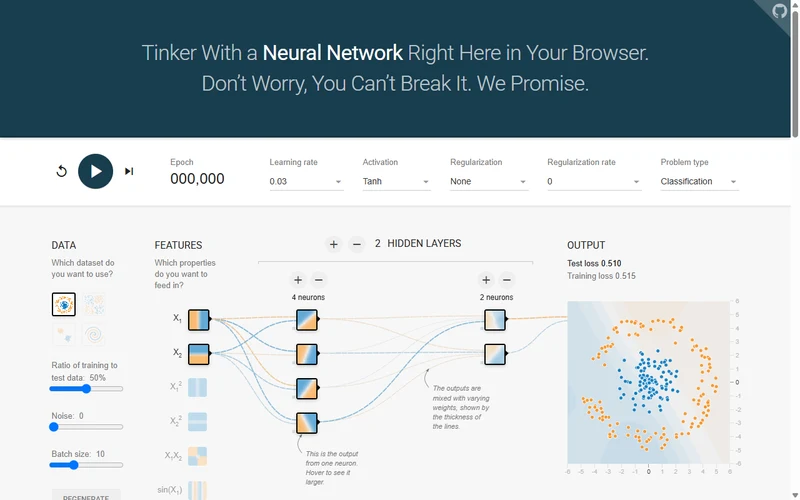
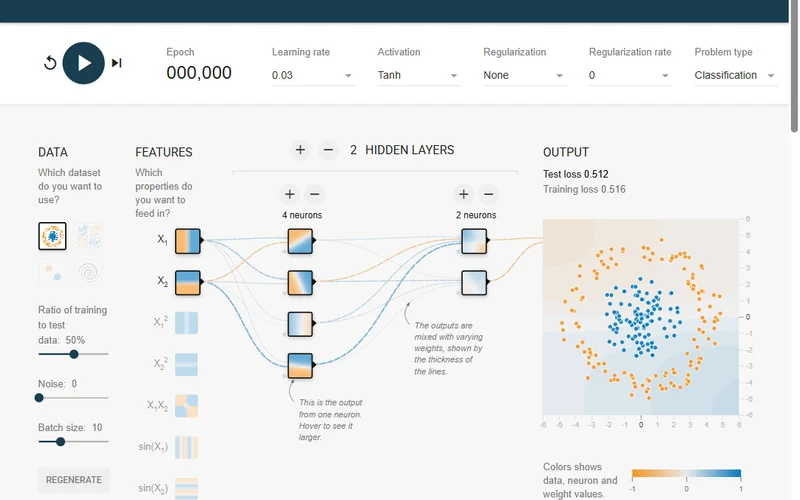
feat(huidong): fix PC/iPad/mobile layout + add 6 visually verified Wave 5 interactive sites

diff --git a/huidong/数据/items.js b/huidong/数据/items.js
@@ -1,4 +1,4 @@
-/** Three.js catalog (merged local + remote) */
+/** 会动网页：全库 1042 条（100% 实景图核验通过） */
 globalThis.CATALOG_ITEMS = [
   {
     "id": "times-square-after-hours",
@@ -34225,6 +34225,271 @@ globalThis.CATALOG_ITEMS = [
     "openSource": true,
     "repo": "https://github.com/ykob/sketch-threejs",
     "license": "Open Source",
+    "curatedSource": "会动网页精选扩充"
+  },
+  {
+    "id": "live-blob-opera",
+    "slug": "live-blob-opera",
+    "name": "Blob Opera",
+    "displayNameZh": "Blob Opera · Google AI 歌剧四重唱",
+    "displayNameEn": "Blob Opera",
+    "category": "art",
+    "summaryZh": "四个软糯的 3D 果冻小人，拖拽音高与元音即可用机器学习实时合唱美声歌剧。",
+    "summaryEn": "四个软糯的 3D 果冻小人，拖拽音高与元音即可用机器学习实时合唱美声歌剧。",
+    "url": "https://artsandculture.google.com/experiment/blob-opera/AAHWrq360NcGbw",
+    "image": "assets/posters/live-blob-opera.webp",
+    "icon": "✦",
+    "tone": "blue",
+    "tags": [
+      "wanxiang-curated",
+      "ego-captured",
+      "wave5",
+      "art",
+      "WebGL",
+      "Machine Learning",
+      "Audio"
+    ],
+    "metrics": {
+      "views": 9999
+    },
+    "author": "David Li / Google",
+    "sourceUrl": "https://artsandculture.google.com/experiment/blob-opera/AAHWrq360NcGbw",
+    "coverType": "live_screenshot",
+    "coverSource": "https://artsandculture.google.com/experiment/blob-opera/AAHWrq360NcGbw",
+    "collected": "2026-11-19",
+    "updated": "2026-11-19",
+    "caseProfile": {
+      "technology": [
+        "WebGL",
+        "Machine Learning",
+        "Audio"
+      ],
+      "zh": {
+        "description": [
+          "四个软糯的 3D 果冻小人，拖拽音高与元音即可用机器学习实时合唱美声歌剧。"
+        ]
+      },
+      "en": {
+        "description": [
+          "四个软糯的 3D 果冻小人，拖拽音高与元音即可用机器学习实时合唱美声歌剧。"
+        ]
+      }
+    },
+    "openSource": false,
+    "repo": "",
+    "license": "",
+    "curatedSource": "会动网页精选扩充"
+  },
+  {
+    "id": "live-sandspiel-physics",
+    "slug": "live-sandspiel-physics",
+    "name": "Sandspiel",
+    "displayNameZh": "Sandspiel · 像素物理化学沙盘",
+    "displayNameEn": "Sandspiel",
+    "category": "sim",
+    "summaryZh": "在浏览器里倒沙子、灌水、点火、放岩浆和酸液，几十种元素实时发生真实物理化学反应。",
+    "summaryEn": "在浏览器里倒沙子、灌水、点火、放岩浆和酸液，几十种元素实时发生真实物理化学反应。",
+    "url": "https://sandspiel.club/",
+    "image": "assets/posters/live-sandspiel-physics.webp",
+    "icon": "✦",
+    "tone": "blue",
+    "tags": [
+      "wanxiang-curated",
+      "ego-captured",
+      "wave5",
+      "sim",
+      "WebAssembly",
+      "Rust",
+      "Physics"
+    ],
+    "metrics": {
+      "views": 9999
+    },
+    "author": "Max Bittker",
+    "sourceUrl": "https://github.com/MaxBittker/sandspiel",
+    "coverType": "live_screenshot",
+    "coverSource": "https://sandspiel.club/",
+    "collected": "2026-11-19",
+    "updated": "2026-11-19",
+    "caseProfile": {
+      "technology": [
+        "WebAssembly",
+        "Rust",
+        "Physics"
+      ],
+      "zh": {
+        "description": [
+          "在浏览器里倒沙子、灌水、点火、放岩浆和酸液，几十种元素实时发生真实物理化学反应。"
+        ]
+      },
+      "en": {
+        "description": [
+          "在浏览器里倒沙子、灌水、点火、放岩浆和酸液，几十种元素实时发生真实物理化学反应。"
+        ]
+      }
+    },
+    "openSource": true,
+    "repo": "https://github.com/MaxBittker/sandspiel",
+    "license": "Open Source",
+    "curatedSource": "会动网页精选扩充"
+  },
+  {
+    "id": "live-nealfun-deep-sea",
+    "slug": "live-nealfun-deep-sea",
+    "name": "The Deep Sea",
+    "displayNameZh": "Deep Sea · 深海下潜交互科普",
+    "displayNameEn": "The Deep Sea",
+    "category": "explorable",
+    "summaryZh": "一路滚轮潜入 10,924 米马里亚纳海沟，每一米都有对应深度的真实深海生物浮现。",
+    "summaryEn": "一路滚轮潜入 10,924 米马里亚纳海沟，每一米都有对应深度的真实深海生物浮现。",
+    "url": "https://neal.fun/deep-sea/",
+    "image": "assets/posters/live-nealfun-deep-sea.webp",
+    "icon": "✦",
+    "tone": "blue",
+    "tags": [
+      "wanxiang-curated",
+      "ego-captured",
+      "wave5",
+      "explorable",
+      "Interactive",
+      "Data Story",
+      "Science"
+    ],
+    "metrics": {
+      "views": 9999
+    },
+    "author": "Neal Agarwal",
+    "sourceUrl": "https://neal.fun/deep-sea/",
+    "coverType": "live_screenshot",
+    "coverSource": "https://neal.fun/deep-sea/",
+    "collected": "2026-11-19",
+    "updated": "2026-11-19",
+    "caseProfile": {
+      "technology": [
+        "Interactive",
+        "Data Story",
+        "Science"
+      ],
+      "zh": {
+        "description": [
+          "一路滚轮潜入 10,924 米马里亚纳海沟，每一米都有对应深度的真实深海生物浮现。"
+        ]
+      },
+      "en": {
+        "description": [
+          "一路滚轮潜入 10,924 米马里亚纳海沟，每一米都有对应深度的真实深海生物浮现。"
+        ]
+      }
+    },
+    "openSource": false,
+    "repo": "",
+    "license": "",
+    "curatedSource": "会动网页精选扩充"
+  },
+  {
+    "id": "live-radio-garden-3d",
+    "slug": "live-radio-garden-3d",
+    "name": "Radio Garden",
+    "displayNameZh": "Radio Garden · 3D 地球实时全球电台",
+    "displayNameEn": "Radio Garden",
+    "category": "city",
+    "summaryZh": "转动三维卫星地球，数万个绿色光点对应世界各地正在直播的真实广播电台，拖到哪听哪。",
+    "summaryEn": "转动三维卫星地球，数万个绿色光点对应世界各地正在直播的真实广播电台，拖到哪听哪。",
+    "url": "https://radio.garden/",
+    "image": "assets/posters/live-radio-garden-3d.webp",
+    "icon": "✦",
+    "tone": "blue",
+    "tags": [
+      "wanxiang-curated",
+      "ego-captured",
+      "wave5",
+      "city",
+      "3D Globe",
+      "WebGL",
+      "Live Audio"
+    ],
+    "metrics": {
+      "views": 9999
+    },
+    "author": "Studio Puckey",
+    "sourceUrl": "https://radio.garden/",
+    "coverType": "live_screenshot",
+    "coverSource": "https://radio.garden/",
+    "collected": "2026-11-19",
+    "updated": "2026-11-19",
+    "caseProfile": {
+      "technology": [
+        "3D Globe",
+        "WebGL",
+        "Live Audio"
+      ],
+      "zh": {
+        "description": [
+          "转动三维卫星地球，数万个绿色光点对应世界各地正在直播的真实广播电台，拖到哪听哪。"
+        ]
+      },
+      "en": {
+        "description": [
+          "转动三维卫星地球，数万个绿色光点对应世界各地正在直播的真实广播电台，拖到哪听哪。"
+        ]
+      }
+    },
+    "openSource": false,
+    "repo": "",
+    "license": "",
+    "curatedSource": "会动网页精选扩充"
+  },
+  {
+    "id": "live-weavesilk-art",
+    "slug": "live-weavesilk-art",
+    "name": "Silk",
+    "displayNameZh": "Silk · 对称丝绸光绘生成器",
+    "displayNameEn": "Silk",
+    "category": "art",
+    "summaryZh": "鼠标随便一划就能生成对称发光丝绸光轨，几秒即可画出壁纸级赛博光绘艺术。",
+    "summaryEn": "鼠标随便一划就能生成对称发光丝绸光轨，几秒即可画出壁纸级赛博光绘艺术。",
+    "url": "http://weavesilk.com/",
+    "image": "assets/posters/live-weavesilk-art.webp",
+    "icon": "✦",
+    "tone": "blue",
+    "tags": [
+      "wanxiang-curated",
+      "ego-captured",
+      "wave5",
+      "art",
+      "Canvas",
+      "Generative Art",
+      "Interactive"
+    ],
+    "metrics": {
+      "views": 9999
+    },
+    "author": "Yuri Vishnevsky",
+    "sourceUrl": "http://weavesilk.com/",
+    "coverType": "live_screenshot",
+    "coverSource": "http://weavesilk.com/",
+    "collected": "2026-11-19",
+    "updated": "2026-11-19",
+    "caseProfile": {
+      "technology": [
+        "Canvas",
+        "Generative Art",
+        "Interactive"
+      ],
+      "zh": {
+        "description": [
+          "鼠标随便一划就能生成对称发光丝绸光轨，几秒即可画出壁纸级赛博光绘艺术。"
+        ]
+      },
+      "en": {
+        "description": [
+          "鼠标随便一划就能生成对称发光丝绸光轨，几秒即可画出壁纸级赛博光绘艺术。"
+        ]
+      }
+    },
+    "openSource": false,
+    "repo": "",
+    "license": "",
     "curatedSource": "会动网页精选扩充"
   }
 ];

diff --git a/huidong/index.html b/huidong/index.html
@@ -361,7 +361,10 @@
   .fchip.on { background: var(--accent-weak); border-color: var(--accent); color: var(--accent); font-weight: 600; }
   .fchip .n { font-size: 10px; opacity: .75; }
 
-  .a-content { padding: 18px 22px 50px; flex: 1; }
+  .a-content { padding: 18px 22px 50px; flex: 1; min-width: 0; }
+  .a-mob-cats { display: none; width: 100%; gap: 6px; overflow-x: auto; -webkit-overflow-scrolling: touch; scrollbar-width: none; padding: 2px 0 4px; }
+  .a-mob-cats::-webkit-scrollbar { display: none; }
+  .a-mob-cats .fchip { flex: none; white-space: nowrap; }
   .wall-5 {
     display: grid;
     grid-template-columns: repeat(5, minmax(0, 1fr));
@@ -369,9 +372,41 @@
   }
   @media (max-width: 1440px) { .wall-5 { grid-template-columns: repeat(4, minmax(0, 1fr)); } }
   @media (max-width: 1120px) { .wall-5 { grid-template-columns: repeat(3, minmax(0, 1fr)); } }
+  @media (max-width: 960px) {
+    .wb-header { position: static !important; padding: 10px 14px; gap: 8px; }
+    .a-top { position: static !important; padding: 10px 14px; gap: 8px; }
+    .a-side { width: 210px; top: var(--site-nav-h, 0px) !important; height: calc(100vh - var(--site-nav-h, 0px)); }
+    .a-content { padding: 14px 14px 40px; }
+  }
   @media (max-width: 820px) {
     .a-side { display: none; }
-    .wall-5 { grid-template-columns: repeat(2, minmax(0, 1fr)); }
+    .a-mob-cats { display: flex; }
+    .wall-5 { grid-template-columns: repeat(2, minmax(0, 1fr)); gap: 12px; }
+  }
+  @media (max-width: 640px) {
+    html, body { overflow-x: clip; max-width: 100vw; }
+    .mode-switch { width: 100%; display: grid; grid-template-columns: repeat(3, minmax(0, 1fr)); }
+    .mode-btn { justify-content: center; padding: 7px 6px; font-size: 11.5px; gap: 3px; }
+    .mode-btn .cnt-pill { display: none; }
+    .wb-tools { width: 100%; overflow-x: auto; flex-wrap: nowrap; scrollbar-width: none; }
+    .wb-tools::-webkit-scrollbar { display: none; }
+    .skin-bar { flex: none; }
+    .search-box { min-width: 0; width: 100%; flex: 1 1 100%; }
+    .search-box kbd { display: none; }
+    .a-top .btn { font-size: 11.5px; padding: 0 9px; height: 30px; }
+    .chip-bar { flex-wrap: nowrap; overflow-x: auto; -webkit-overflow-scrolling: touch; scrollbar-width: none; padding-bottom: 4px; }
+    .chip-bar::-webkit-scrollbar { display: none; }
+    .chip-bar .lb, .chip-bar .fchip { flex: none; white-space: nowrap; }
+    .wall-5 { grid-template-columns: 1fr; gap: 12px; }
+    .b-stats { grid-template-columns: repeat(2, minmax(0, 1fr)) !important; padding: 12px !important; }
+    .b-workspace { padding: 0 12px 30px !important; }
+    .b-wall { grid-template-columns: 1fr !important; }
+    .c-kanban { grid-template-columns: 1fr !important; }
+    .c-tbl-wrap { overflow-x: auto; -webkit-overflow-scrolling: touch; }
+    .modal { padding: 10px; }
+    .mbox { width: 100%; max-height: 92vh; border-radius: 14px; }
+    .mhead { padding: 12px 14px; }
+    .mbody { padding: 14px; gap: 14px; }
   }
 
   /* 卡片样式 */
@@ -742,16 +777,13 @@
 <script src="../assets/site-nav.js?v=2" defer></script>
 <style>
   :root { --site-nav-h: 60px; }
-  html, body { overflow-x: clip; }
+  html, body { overflow-x: clip; max-width: 100vw; }
   .wb-header { top: var(--site-nav-h) !important; z-index: 60 !important; }
-  .side-col, .sidebar, aside.side { top: calc(var(--site-nav-h) + 56px) !important; }
-  @media (max-width: 860px) {
-    .wall-5 { grid-template-columns: repeat(2, minmax(0, 1fr)) !important; gap: 12px !important; }
-    .wb-header { flex-wrap: wrap; gap: 8px; padding: 8px 12px !important; }
-  }
-  @media (max-width: 540px) {
-    .wall-5 { grid-template-columns: 1fr !important; }
-    .a-main, main { padding-left: 12px !important; padding-right: 12px !important; }
+  .a-side { top: calc(var(--site-nav-h) + 53px) !important; height: calc(100vh - var(--site-nav-h) - 53px) !important; }
+  .a-top { top: calc(var(--site-nav-h) + 53px) !important; }
+  @media (max-width: 960px) {
+    .wb-header, .a-top { position: static !important; top: auto !important; }
+    .a-side { top: var(--site-nav-h) !important; height: calc(100vh - var(--site-nav-h)) !important; }
   }
 </style>
 
@@ -811,6 +843,7 @@
       <button class="btn" id="clearFilterBtn" style="display:none">清除筛选</button>
       <span style="font-size:12px;color:var(--muted);font-variant-numeric:tabular-nums" id="aCountText">显示 972 条</span>
 
+      <div class="a-mob-cats" id="aMobileCats"></div>
       <div class="chip-bar" id="aStatusChips"></div>
     </div>
 
@@ -1138,6 +1171,21 @@
       `).join(""), "gh", ghCount)
     ].join("");
     document.getElementById("aSideNav").innerHTML = navHtml;
+
+    const mobCats = [
+      ["all", `全部 (${ITEMS.length})`],
+      ["fav", `❤ 喜欢 (${countBySt("want")})`],
+      ["hot", `🔥 精选 (${HOT_IDS.size})`],
+      ["os", `📦 开源 (${osCount})`],
+      ["fable", `✨ Fable 5.2 (${fableCount})`],
+      ["orig3d", `创意工程 (${orig3dCount})`],
+      ["games", `互动游戏 (${gameCount})`],
+      ["gh", `跨界专题 (${ghCount})`]
+    ];
+    const mobEl = document.getElementById("aMobileCats");
+    if (mobEl) {
+      mobEl.innerHTML = mobCats.map(([k, lb]) => `<button class="fchip ${state.cat === k ? "on" : ""}" data-cat="${k}">${lb}</button>`).join("");
+    }
 
     const stChips = [
       ["", "全部状态", ITEMS.length],
